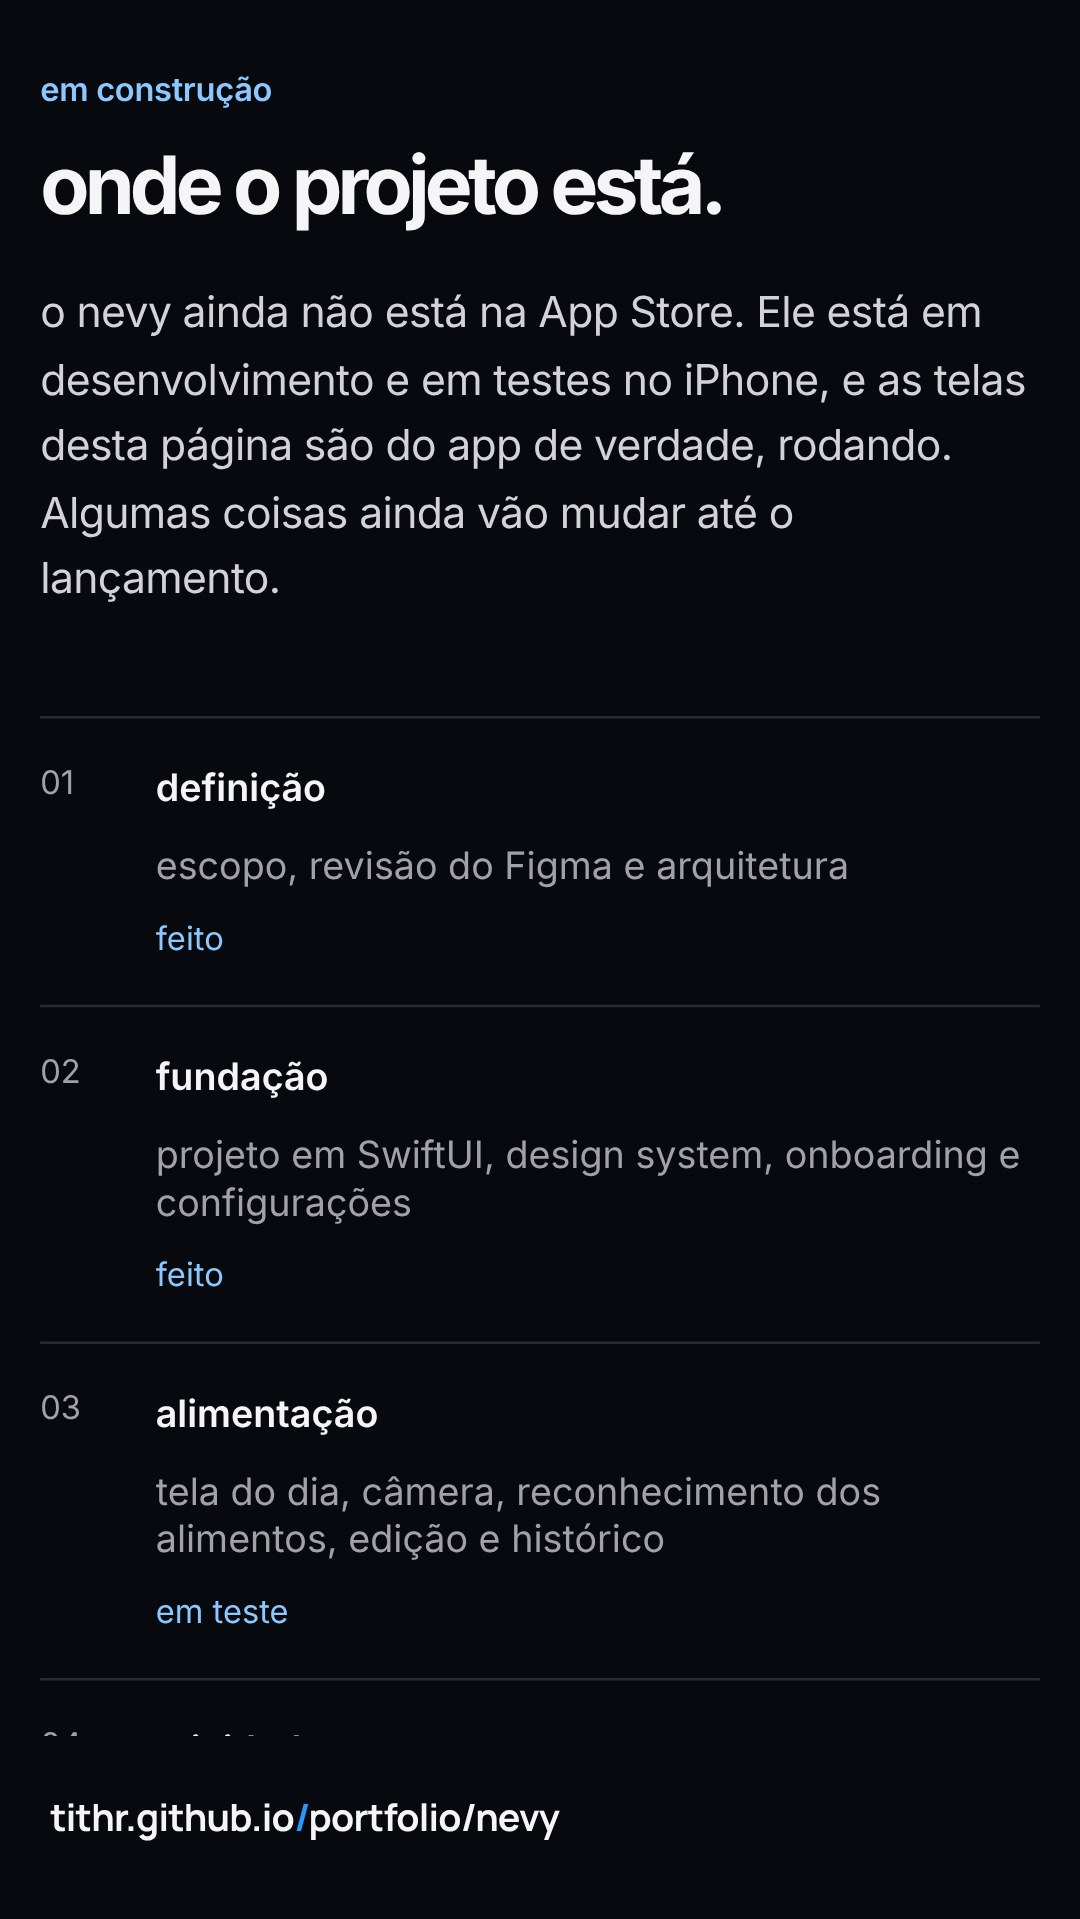
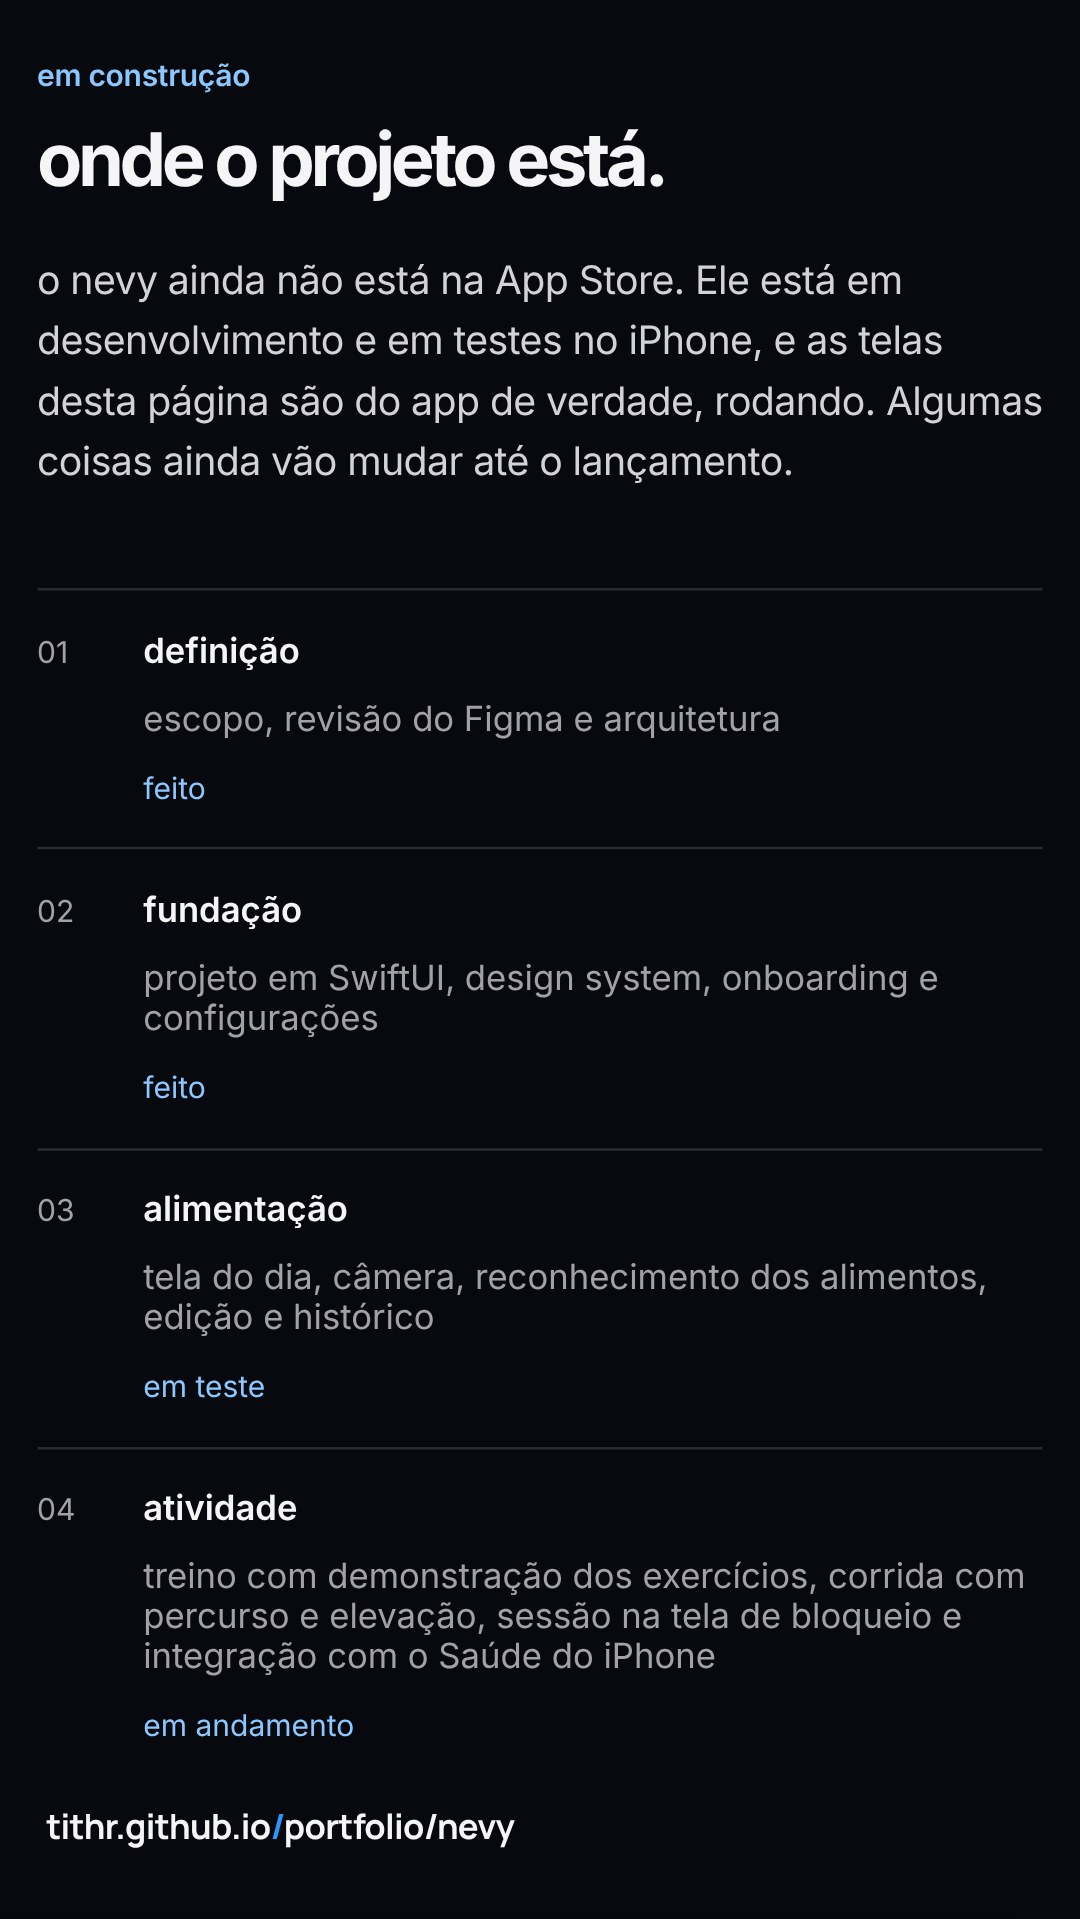
celular: site 8% menor, como no desktop
Claude-Session: https://claude.ai/code/session_015z2G63p8ibVhGsPnRoC111

diff --git a/nevy.html b/nevy.html
@@ -22,7 +22,7 @@
     <meta name="theme-color" content="#07090e" />
     <link rel="preload" href="fonts/manrope.woff2" as="font" type="font/woff2" crossorigin />
     <link rel="preload" href="img/nevy/03-hoje.webp" as="image" type="image/webp" fetchpriority="high" />
-    <link rel="stylesheet" href="styles.css?v=49" />
+    <link rel="stylesheet" href="styles.css?v=50" />
     <script type="application/ld+json">{"@context":"https://schema.org","@type":"MobileApplication","name":"nevy","operatingSystem":"iOS","applicationCategory":"HealthApplication","inLanguage":"pt-BR","description":"App de iPhone para registrar comida, treino e corrida com poucos toques. Em desenvolvimento.","author":{"@type":"Person","name":"Tiago Rosario","url":"https://tithr.github.io/portfolio/"}}</script>
   </head>
   <body class="case-page lp">

diff --git a/404.html b/404.html
@@ -8,7 +8,7 @@
     <meta name="theme-color" content="#07090e" />
     <link rel="icon" type="image/svg+xml" href="/portfolio/favicon.svg" />
     <style>@font-face { font-family: Manrope; font-weight: 200 800; font-display: swap; src: url(/portfolio/fonts/manrope.woff2) format("woff2"); }</style>
-    <link rel="stylesheet" href="/portfolio/styles.css?v=49" />
+    <link rel="stylesheet" href="/portfolio/styles.css?v=50" />
   </head>
   <body class="case-page">
     <a class="skip" href="#conteudo" data-i18n="skip">pular para o conteúdo</a>

diff --git a/nevy-case.html b/nevy-case.html
@@ -21,7 +21,7 @@
     <meta name="twitter:card" content="summary_large_image" />
     <meta name="theme-color" content="#07090e" />
     <link rel="preload" href="fonts/manrope.woff2" as="font" type="font/woff2" crossorigin />
-    <link rel="stylesheet" href="styles.css?v=49" />
+    <link rel="stylesheet" href="styles.css?v=50" />
   </head>
   <body class="case-page">
     <a class="skip" href="#conteudo" data-i18n="skip">pular para o conteúdo</a>

diff --git a/primeiro-commit.html b/primeiro-commit.html
@@ -21,7 +21,7 @@
     <meta name="twitter:card" content="summary_large_image" />
     <meta name="theme-color" content="#07090e" />
     <link rel="preload" href="fonts/manrope.woff2" as="font" type="font/woff2" crossorigin />
-    <link rel="stylesheet" href="styles.css?v=49" />
+    <link rel="stylesheet" href="styles.css?v=50" />
   </head>
   <body class="case-page">
     <a class="skip" href="#conteudo" data-i18n="skip">pular para o conteúdo</a>

diff --git a/index.html b/index.html
@@ -21,7 +21,7 @@
     <meta name="theme-color" content="#07090e" />
     <link rel="icon" type="image/svg+xml" href="favicon.svg" />
     <link rel="preload" href="fonts/manrope.woff2" as="font" type="font/woff2" crossorigin />
-    <link rel="stylesheet" href="styles.css?v=49" />
+    <link rel="stylesheet" href="styles.css?v=50" />
     <script type="application/ld+json">
       {
         "@context": "https://schema.org",

diff --git a/styles.css b/styles.css
@@ -473,3 +473,4 @@ footer a { color: var(--ink); }
 
 /* telas largas: o site inteiro fica um pouco menor em zoom 100% */
 @media (min-width: 1000px) { body { zoom: .9; } }
+@media (max-width: 999px) { body { zoom: .92; } }
